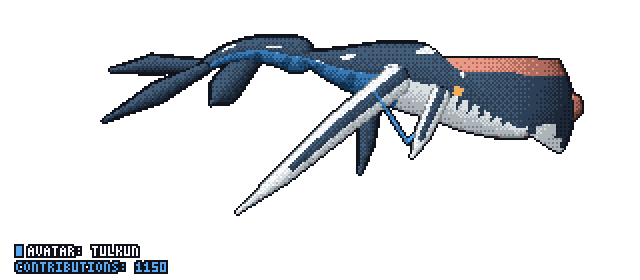
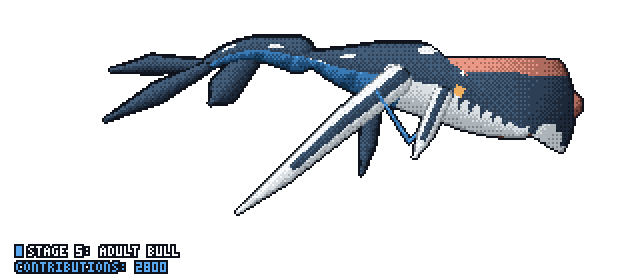
fix(ci): format rust code with rustfmt and update docs assets

diff --git a/docs/canon-bull/preview.html b/docs/canon-bull/preview.html
@@ -16,7 +16,7 @@
 </style>
 </head>
 <body>
-<header class="dark"><h1>@demo-user — Adult Male Bull (Hooked Hammer-Crest) (1150 commits)</h1></header>
+<header class="dark"><h1>@demo-user - Adult Male Bull (Hooked Hammer-Crest) (2800 contributions)</h1></header>
 <section class="dark">
 <h2>GitHub Dark Mode</h2>
 <div class="images">

diff --git a/docs/stage5-bull/preview.html b/docs/stage5-bull/preview.html
@@ -16,7 +16,7 @@
 </style>
 </head>
 <body>
-<header class="dark"><h1>@demo-user — Adult Male Bull (Hooked Hammer-Crest) (1150 commits)</h1></header>
+<header class="dark"><h1>@demo-user - Adult Male Bull (Hooked Hammer-Crest) (2800 contributions)</h1></header>
 <section class="dark">
 <h2>GitHub Dark Mode</h2>
 <div class="images">

diff --git a/docs/view-dive/preview.html b/docs/view-dive/preview.html
@@ -16,7 +16,7 @@
 </style>
 </head>
 <body>
-<header class="dark"><h1>@demo-user — Adult Male Bull (Hooked Hammer-Crest) (1150 commits)</h1></header>
+<header class="dark"><h1>@demo-user - Adult Male Bull (Hooked Hammer-Crest) (2800 contributions)</h1></header>
 <section class="dark">
 <h2>GitHub Dark Mode</h2>
 <div class="images">

diff --git a/docs/view-top/preview.html b/docs/view-top/preview.html
@@ -16,7 +16,7 @@
 </style>
 </head>
 <body>
-<header class="dark"><h1>@demo-user — Adult Male Bull (Hooked Hammer-Crest) (1150 commits)</h1></header>
+<header class="dark"><h1>@demo-user - Adult Male Bull (Hooked Hammer-Crest) (2800 contributions)</h1></header>
 <section class="dark">
 <h2>GitHub Dark Mode</h2>
 <div class="images">

diff --git a/docs/stage4-female/preview.html b/docs/stage4-female/preview.html
@@ -16,7 +16,7 @@
 </style>
 </head>
 <body>
-<header class="dark"><h1>@demo-user — Adult Female (Sloped Sensor Crest) (720 commits)</h1></header>
+<header class="dark"><h1>@demo-user - Adult Female (Sloped Sensor Crest) (1750 contributions)</h1></header>
 <section class="dark">
 <h2>GitHub Dark Mode</h2>
 <div class="images">

diff --git a/docs/stage2-yearling/preview.html b/docs/stage2-yearling/preview.html
@@ -16,7 +16,7 @@
 </style>
 </head>
 <body>
-<header class="dark"><h1>@demo-user — Yearling Calf (Kuru Active) (160 commits)</h1></header>
+<header class="dark"><h1>@demo-user - Yearling Calf (Kuru Active) (300 contributions)</h1></header>
 <section class="dark">
 <h2>GitHub Dark Mode</h2>
 <div class="images">

diff --git a/docs/stage3-adolescent/preview.html b/docs/stage3-adolescent/preview.html
@@ -16,7 +16,7 @@
 </style>
 </head>
 <body>
-<header class="dark"><h1>@demo-user — Adolescent Tulkun (360 commits)</h1></header>
+<header class="dark"><h1>@demo-user - Adolescent Tulkun (800 contributions)</h1></header>
 <section class="dark">
 <h2>GitHub Dark Mode</h2>
 <div class="images">

diff --git a/docs/stage1-calf/preview.html b/docs/stage1-calf/preview.html
@@ -16,7 +16,7 @@
 </style>
 </head>
 <body>
-<header class="dark"><h1>@demo-user — Baby Tulkun Calf (45 commits)</h1></header>
+<header class="dark"><h1>@demo-user - Baby Tulkun Calf (60 contributions)</h1></header>
 <section class="dark">
 <h2>GitHub Dark Mode</h2>
 <div class="images">

diff --git a/src/render.rs b/src/render.rs
@@ -18,12 +18,7 @@ pub const LOOP_FRAME_COUNT: u32 = 48;
 
 pub const OUTLINE_COLOR: [u8; 4] = [15, 18, 26, 255];
 
-const BAYER_4X4: [[u8; 4]; 4] = [
-    [0, 8, 2, 10],
-    [12, 4, 14, 6],
-    [3, 11, 1, 9],
-    [15, 7, 13, 5],
-];
+const BAYER_4X4: [[u8; 4]; 4] = [[0, 8, 2, 10], [12, 4, 14, 6], [3, 11, 1, 9], [15, 7, 13, 5]];
 
 /// Camera perspective for rendering the Tulkun.
 #[derive(Clone, Copy, Debug, Eq, PartialEq)]
@@ -272,7 +267,9 @@ pub fn render_swim_frame(
     let h = FRAME_HEIGHT_PIXELS;
     let mut rgba_pixels = vec![[0_u8; 4]; (w * h) as usize];
 
-    let effective_commits = snapshot.total_contributions.max(snapshot.monthly_contributions);
+    let effective_commits = snapshot
+        .total_contributions
+        .max(snapshot.monthly_contributions);
     let bio = TulkunBiology::from_commits(effective_commits);
 
     // Seamless slow 5-second period phase in [0, TAU)
@@ -288,7 +285,23 @@ pub fn render_swim_frame(
     let mut ref_min_y = f64::INFINITY;
     let mut ref_max_x = f64::NEG_INFINITY;
     let mut ref_max_y = f64::NEG_INFINITY;
-    for step in 0..8 { let (s_spine, s_parts) = build_pose_geometry(&bio, view, TAU * (step as f64 / 8.0), w, h); for p in &s_spine { ref_min_x = ref_min_x.min(p.x - p.r - 4.0); ref_max_x = ref_max_x.max(p.x + p.r + 4.0); ref_min_y = ref_min_y.min(p.y - p.r_top - 4.0); ref_max_y = ref_max_y.max(p.y + p.r_bot + 4.0); } for part in &s_parts { for p in &part.pts { ref_min_x = ref_min_x.min(p.x - p.r - 4.0); ref_max_x = ref_max_x.max(p.x + p.r + 4.0); ref_min_y = ref_min_y.min(p.y - p.r - 4.0); ref_max_y = ref_max_y.max(p.y + p.r + 4.0); } } }
+    for step in 0..8 {
+        let (s_spine, s_parts) = build_pose_geometry(&bio, view, TAU * (step as f64 / 8.0), w, h);
+        for p in &s_spine {
+            ref_min_x = ref_min_x.min(p.x - p.r - 4.0);
+            ref_max_x = ref_max_x.max(p.x + p.r + 4.0);
+            ref_min_y = ref_min_y.min(p.y - p.r_top - 4.0);
+            ref_max_y = ref_max_y.max(p.y + p.r_bot + 4.0);
+        }
+        for part in &s_parts {
+            for p in &part.pts {
+                ref_min_x = ref_min_x.min(p.x - p.r - 4.0);
+                ref_max_x = ref_max_x.max(p.x + p.r + 4.0);
+                ref_min_y = ref_min_y.min(p.y - p.r - 4.0);
+                ref_max_y = ref_max_y.max(p.y + p.r + 4.0);
+            }
+        }
+    }
 
     for p in &rest_spine {
         ref_min_x = ref_min_x.min(p.x - p.r - 4.0);
@@ -652,7 +665,12 @@ fn build_pose_geometry(
                 z: 2,
                 kind: PartKind::Opercular,
                 pts: vec![
-                    pt_node(op_root.x, op_root.y + side * op_root.r * 0.75, max_radius * 0.26, 0.0),
+                    pt_node(
+                        op_root.x,
+                        op_root.y + side * op_root.r * 0.75,
+                        max_radius * 0.26,
+                        0.0,
+                    ),
                     pt_node(
                         op_root.x - dir * (op_len * 0.45 + aux_flap * 0.3),
                         op_root.y + side * (op_root.r * 0.75 + op_len * 0.85),
@@ -674,7 +692,12 @@ fn build_pose_geometry(
                 z: 3,
                 kind: PartKind::MainWing,
                 pts: vec![
-                    pt_node(main_root.x, main_root.y + side * main_root.r * 0.75, max_radius * 0.42, 0.0),
+                    pt_node(
+                        main_root.x,
+                        main_root.y + side * main_root.r * 0.75,
+                        max_radius * 0.42,
+                        0.0,
+                    ),
                     pt_node(
                         main_root.x - dir * (main_len * 0.28 + wing_flap * 0.3),
                         main_root.y + side * (main_root.r + main_len * 0.52),
@@ -702,7 +725,12 @@ fn build_pose_geometry(
                     z: 1,
                     kind: PartKind::Kuru,
                     pts: vec![
-                        pt_node(op_root.x - dir * 4.0, op_root.y + side * op_root.r * 0.9, 1.2, 0.0),
+                        pt_node(
+                            op_root.x - dir * 4.0,
+                            op_root.y + side * op_root.r * 0.9,
+                            1.2,
+                            0.0,
+                        ),
                         pt_node(
                             op_root.x - dir * k_len * 0.6,
                             op_root.y + side * (op_root.r * 1.15 + k_len * 0.22 + aux_flap * 0.4),
@@ -725,7 +753,12 @@ fn build_pose_geometry(
                 z: 2,
                 kind: PartKind::Fluke,
                 pts: vec![
-                    pt_node(pelv_root.x, pelv_root.y + side * pelv_root.r * 0.6, max_radius * 0.22, 0.0),
+                    pt_node(
+                        pelv_root.x,
+                        pelv_root.y + side * pelv_root.r * 0.6,
+                        max_radius * 0.22,
+                        0.0,
+                    ),
                     pt_node(
                         pelv_root.x - dir * p_len * 0.65,
                         pelv_root.y + side * (pelv_root.r + p_len * 0.75),
@@ -770,7 +803,12 @@ fn build_pose_geometry(
             z: 3,
             kind: PartKind::Opercular,
             pts: vec![
-                pt_node(op_root.x, op_root.y + op_root.r_bot * 0.35, max_radius * 0.28, 0.0),
+                pt_node(
+                    op_root.x,
+                    op_root.y + op_root.r_bot * 0.35,
+                    max_radius * 0.28,
+                    0.0,
+                ),
                 pt_node(
                     op_root.x - dir * op_len * 0.35,
                     op_root.y + op_root.r_bot * 0.35 + op_len * 0.65 + aux_flap * 0.5,
@@ -792,7 +830,12 @@ fn build_pose_geometry(
                 z: 2,
                 kind: PartKind::Kuru,
                 pts: vec![
-                    pt_node(op_root.x - dir * 3.0, op_root.y + op_root.r_bot * 0.85, 1.2, 0.0),
+                    pt_node(
+                        op_root.x - dir * 3.0,
+                        op_root.y + op_root.r_bot * 0.85,
+                        1.2,
+                        0.0,
+                    ),
                     pt_node(
                         (op_root.x + k_end.x) * 0.5,
                         op_root.y + op_root.r_bot * 1.25 + 3.0 + aux_flap * 0.6,
@@ -810,7 +853,12 @@ fn build_pose_geometry(
             z: 4,
             kind: PartKind::MainWing,
             pts: vec![
-                pt_node(main_root.x, main_root.y + main_root.r_bot * 0.22, max_radius * 0.42, 0.0),
+                pt_node(
+                    main_root.x,
+                    main_root.y + main_root.r_bot * 0.22,
+                    max_radius * 0.42,
+                    0.0,
+                ),
                 pt_node(
                     main_root.x - dir * wing_len * 0.36,
                     main_root.y + wing_len * 0.28 + wing_flap * 0.35,
@@ -839,7 +887,12 @@ fn build_pose_geometry(
                 z: -2,
                 kind: PartKind::AuxFlipper,
                 pts: vec![
-                    pt_node(v_root.x, v_root.y + v_root.r_bot * 0.75, max_radius * 0.30, 0.0),
+                    pt_node(
+                        v_root.x,
+                        v_root.y + v_root.r_bot * 0.75,
+                        max_radius * 0.30,
+                        0.0,
+                    ),
                     pt_node(
                         v_root.x - dir * (v_len * 0.12 - aux_flap * 0.3),
                         v_root.y + v_root.r_bot * 0.75 + v_len * 0.65,
@@ -862,7 +915,12 @@ fn build_pose_geometry(
             z: -1,
             kind: PartKind::Fluke,
             pts: vec![
-                pt_node(pelv_root.x, pelv_root.y + pelv_root.r_bot * 0.6, p_scale * 0.24, 0.0),
+                pt_node(
+                    pelv_root.x,
+                    pelv_root.y + pelv_root.r_bot * 0.6,
+                    p_scale * 0.24,
+                    0.0,
+                ),
                 pt_node(
                     pelv_root.x - dir * p_scale * 0.55,
                     pelv_root.y + pelv_root.r_bot * 0.7 + p_scale * 0.45 + fluke_whip * 0.4,
@@ -927,8 +985,18 @@ fn build_pose_geometry(
                 kind: PartKind::CrimsonScoop,
                 pts: vec![
                     pt_node(snout.x - 4.0, snout.y, max_radius * 0.50, 0.0),
-                    pt_node(snout.x + s_len * 0.55, snout.y - s_len * 0.12, max_radius * 0.62, 0.5),
-                    pt_node(snout.x + s_len * 0.95, snout.y - s_len * 0.22, max_radius * 0.38, 1.0),
+                    pt_node(
+                        snout.x + s_len * 0.55,
+                        snout.y - s_len * 0.12,
+                        max_radius * 0.62,
+                        0.5,
+                    ),
+                    pt_node(
+                        snout.x + s_len * 0.95,
+                        snout.y - s_len * 0.22,
+                        max_radius * 0.38,
+                        1.0,
+                    ),
                 ],
             });
         }
@@ -1042,7 +1110,9 @@ pub fn render_share_card_frame(
         pixels[(18 * w + x) as usize] = border_col;
     }
 
-    let effective_commits = snapshot.total_contributions.max(snapshot.monthly_contributions);
+    let effective_commits = snapshot
+        .total_contributions
+        .max(snapshot.monthly_contributions);
     let bio = TulkunBiology::from_commits(effective_commits);
 
     draw_pixel_string(&mut pixels, w, h, 9, 9, "GIT-TULKUN", coat.cream[3]);

diff --git a/src/history.rs b/src/history.rs
@@ -1,8 +1,8 @@
 //! Account snapshot and language share models.
 
-use std::collections::BTreeMap;
 use chrono::{Datelike, Duration, NaiveDate};
 use serde::{Deserialize, Serialize};
+use std::collections::BTreeMap;
 
 /// Window mode used to sum contributions for Tulkun stage progression.
 #[derive(Clone, Copy, Debug, Default, Serialize, Deserialize, Eq, PartialEq)]
@@ -62,7 +62,10 @@ impl AccountSnapshot {
 }
 
 /// Summarize daily contributions in the current calendar year into total, current month, current streak, and longest streak.
-pub fn summarize_calendar(days: &[ContributionDay], observed_on: NaiveDate) -> (u64, u64, u32, u32) {
+pub fn summarize_calendar(
+    days: &[ContributionDay],
+    observed_on: NaiveDate,
+) -> (u64, u64, u32, u32) {
     summarize_calendar_window(days, observed_on, ContributionWindow::Annual)
 }
 
@@ -92,7 +95,8 @@ pub fn summarize_calendar_window(
         if in_window {
             total += u64::from(day.count);
         }
-        if day.date.year_ce() == observed_on.year_ce() && day.date.month0() == observed_on.month0() {
+        if day.date.year_ce() == observed_on.year_ce() && day.date.month0() == observed_on.month0()
+        {
             monthly += u64::from(day.count);
         }
         if day.count > 0 {
@@ -116,6 +120,10 @@ pub fn rank_languages(raw_counts: BTreeMap<String, (String, u32)>) -> Vec<Langua
             repo_count,
         })
         .collect();
-    list.sort_by(|a, b| b.repo_count.cmp(&a.repo_count).then_with(|| a.name.cmp(&b.name)));
+    list.sort_by(|a, b| {
+        b.repo_count
+            .cmp(&a.repo_count)
+            .then_with(|| a.name.cmp(&b.name))
+    });
     list
 }

diff --git a/src/main.rs b/src/main.rs
@@ -16,8 +16,8 @@ use git_tulkun::collect::collect_account_snapshot_with_window;
 use git_tulkun::history::{AccountSnapshot, ContributionWindow, LanguageShare};
 use git_tulkun::output::{encode_gif, encode_png, encode_preview_html, encode_share_card_png};
 use git_tulkun::render::{
-    CameraView, LOOP_FRAME_COUNT, TulkunBiology, TulkunFrame, render_share_card_frame,
-    render_still_frame, render_swim_frame,
+    render_share_card_frame, render_still_frame, render_swim_frame, CameraView, TulkunBiology,
+    TulkunFrame, LOOP_FRAME_COUNT,
 };
 
 fn main() -> ExitCode {
@@ -99,8 +99,8 @@ fn run_cli(args: &[String]) -> Result<(), String> {
                 }
             }
 
-            let raw = fs::read_to_string(snapshot_file)
-                .map_err(|e| format!("{snapshot_file}: {e}"))?;
+            let raw =
+                fs::read_to_string(snapshot_file).map_err(|e| format!("{snapshot_file}: {e}"))?;
             let snapshot: AccountSnapshot =
                 serde_json::from_str(&raw).map_err(|e| format!("{snapshot_file}: {e}"))?;
             render_to_directory(&snapshot, &output_dir, view, canon_only)
@@ -174,7 +174,9 @@ fn parse_view(s: &str) -> Result<CameraView, String> {
         "side" => Ok(CameraView::Side),
         "dive" => Ok(CameraView::Dive),
         "top" => Ok(CameraView::Top),
-        _ => Err(format!("unknown view `{s}` (expected `side`, `dive`, or `top`)")),
+        _ => Err(format!(
+            "unknown view `{s}` (expected `side`, `dive`, or `top`)"
+        )),
     }
 }
 

diff --git a/src/collect.rs b/src/collect.rs
@@ -10,10 +10,10 @@ use std::io::ErrorKind;
 use std::process::Command;
 
 use chrono::{DateTime, NaiveDate, Utc};
-use serde_json::{Value, json};
+use serde_json::{json, Value};
 
 use crate::history::{
-    AccountSnapshot, ContributionDay, ContributionWindow, rank_languages, summarize_calendar_window,
+    rank_languages, summarize_calendar_window, AccountSnapshot, ContributionDay, ContributionWindow,
 };
 
 const ACCOUNT_QUERY: &str = r#"
@@ -121,10 +121,7 @@ fn parse_graphql_snapshot(
         .filter(|u| !u.is_null())
         .ok_or_else(|| format!("GitHub user `{login}` not found"))?;
 
-    let account_id = user
-        .get("databaseId")
-        .and_then(Value::as_u64)
-        .unwrap_or(1);
+    let account_id = user.get("databaseId").and_then(Value::as_u64).unwrap_or(1);
 
     let mut lang_counts: BTreeMap<String, (String, u32)> = BTreeMap::new();
     if let Some(nodes) = user
@@ -221,7 +218,9 @@ fn fetch_public_rest_snapshot(
                 }
                 if let Some(lang_name) = repo.get("language").and_then(Value::as_str) {
                     let color = default_language_hex(lang_name).to_owned();
-                    let entry = lang_counts.entry(lang_name.to_owned()).or_insert((color, 0));
+                    let entry = lang_counts
+                        .entry(lang_name.to_owned())
+                        .or_insert((color, 0));
                     entry.1 += 1;
                 }
             }
